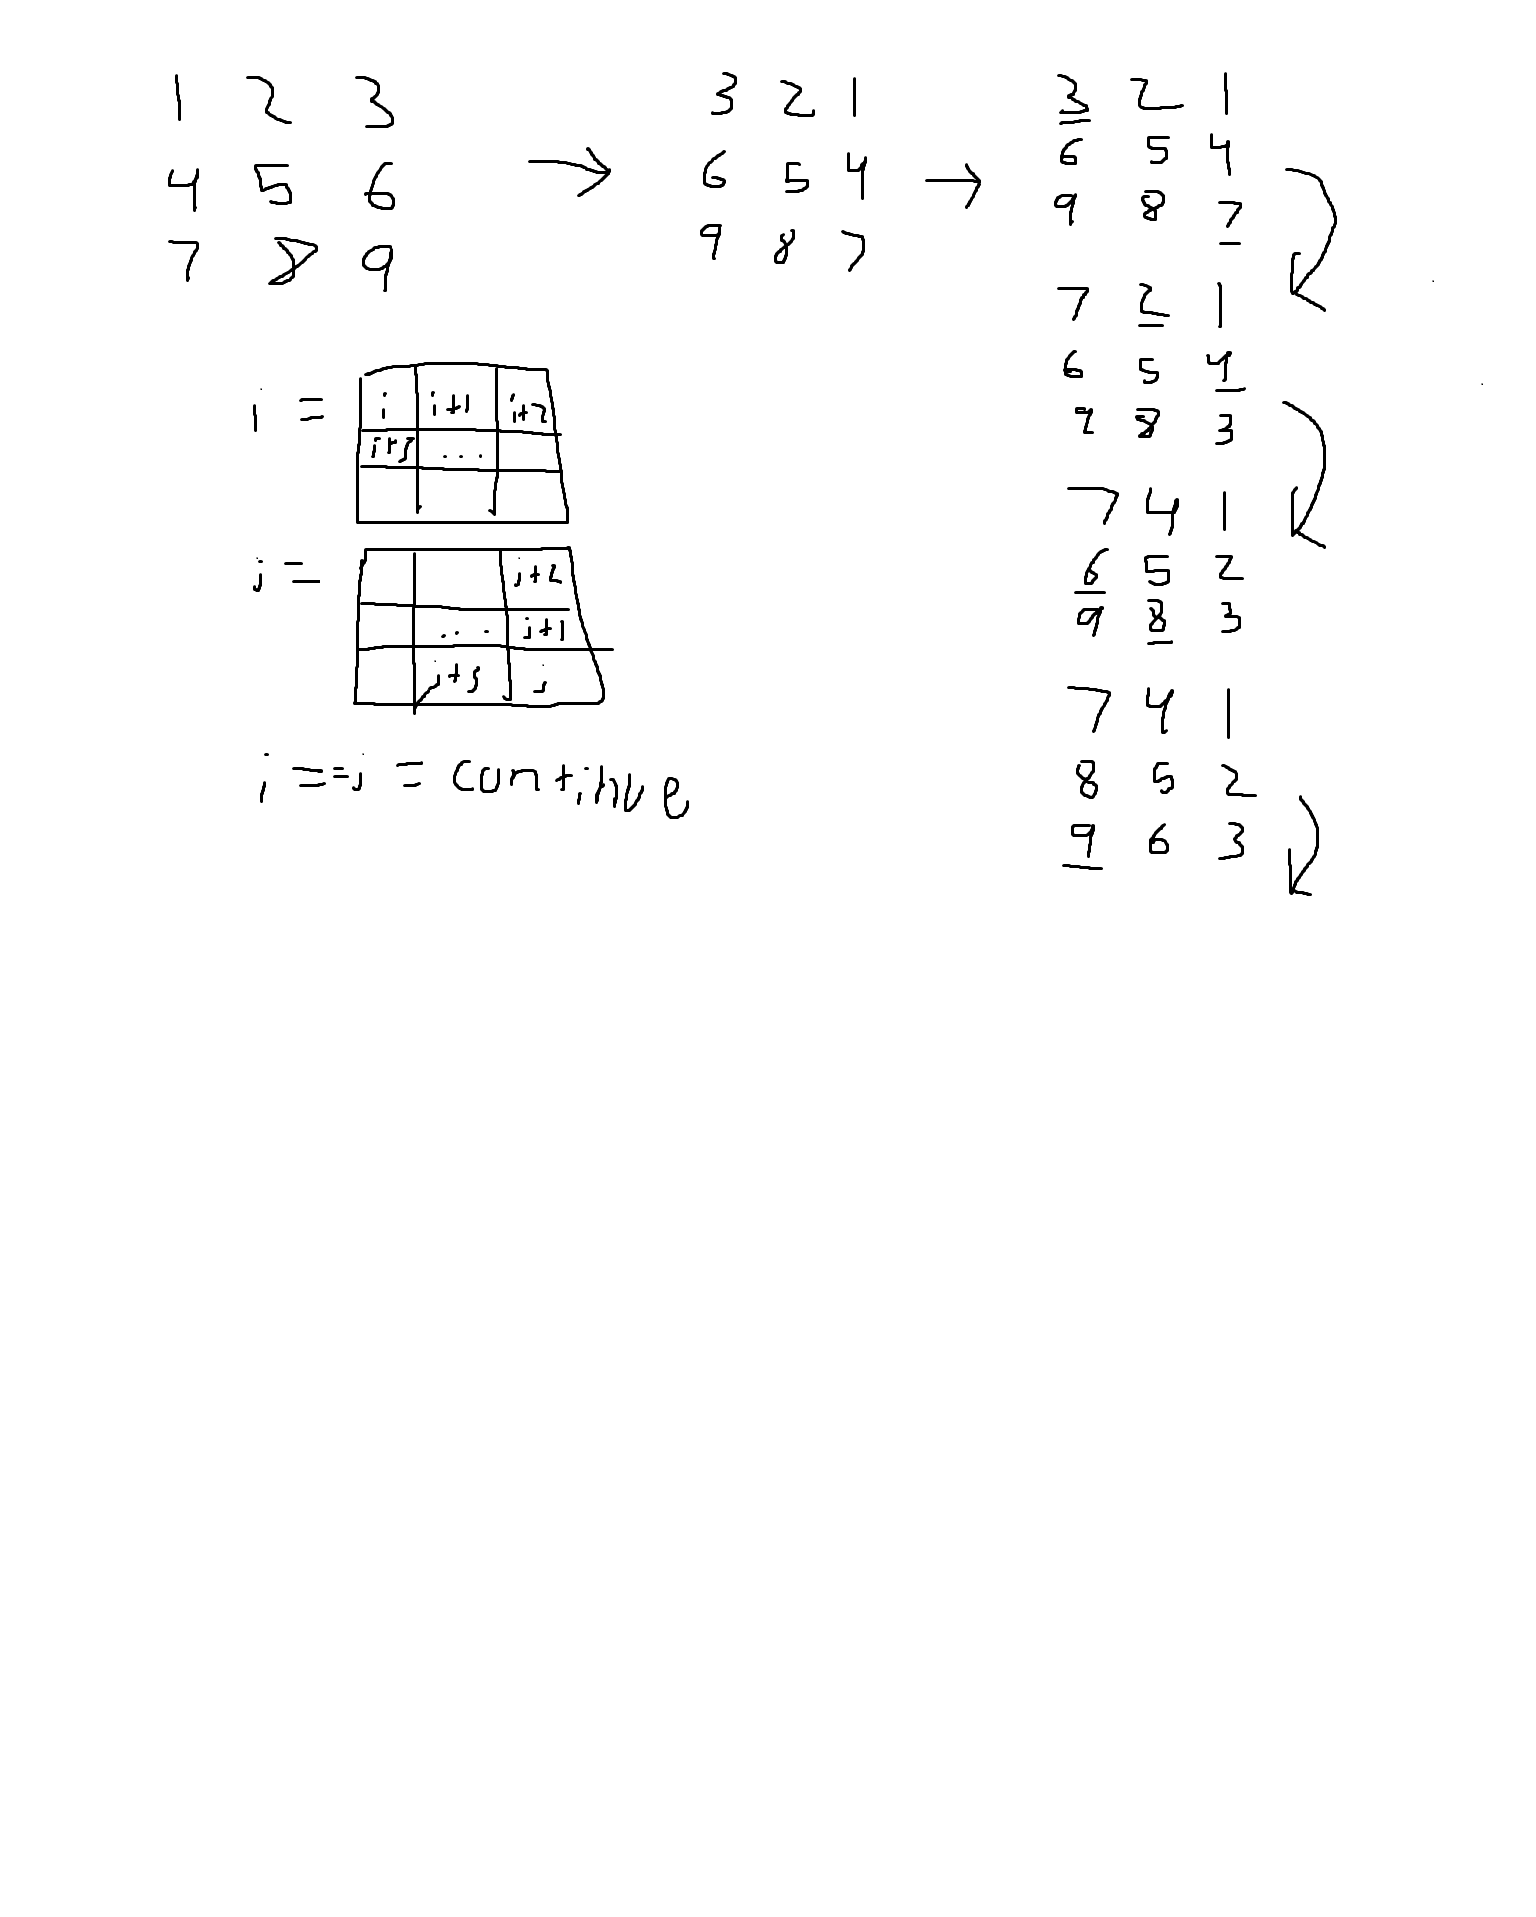
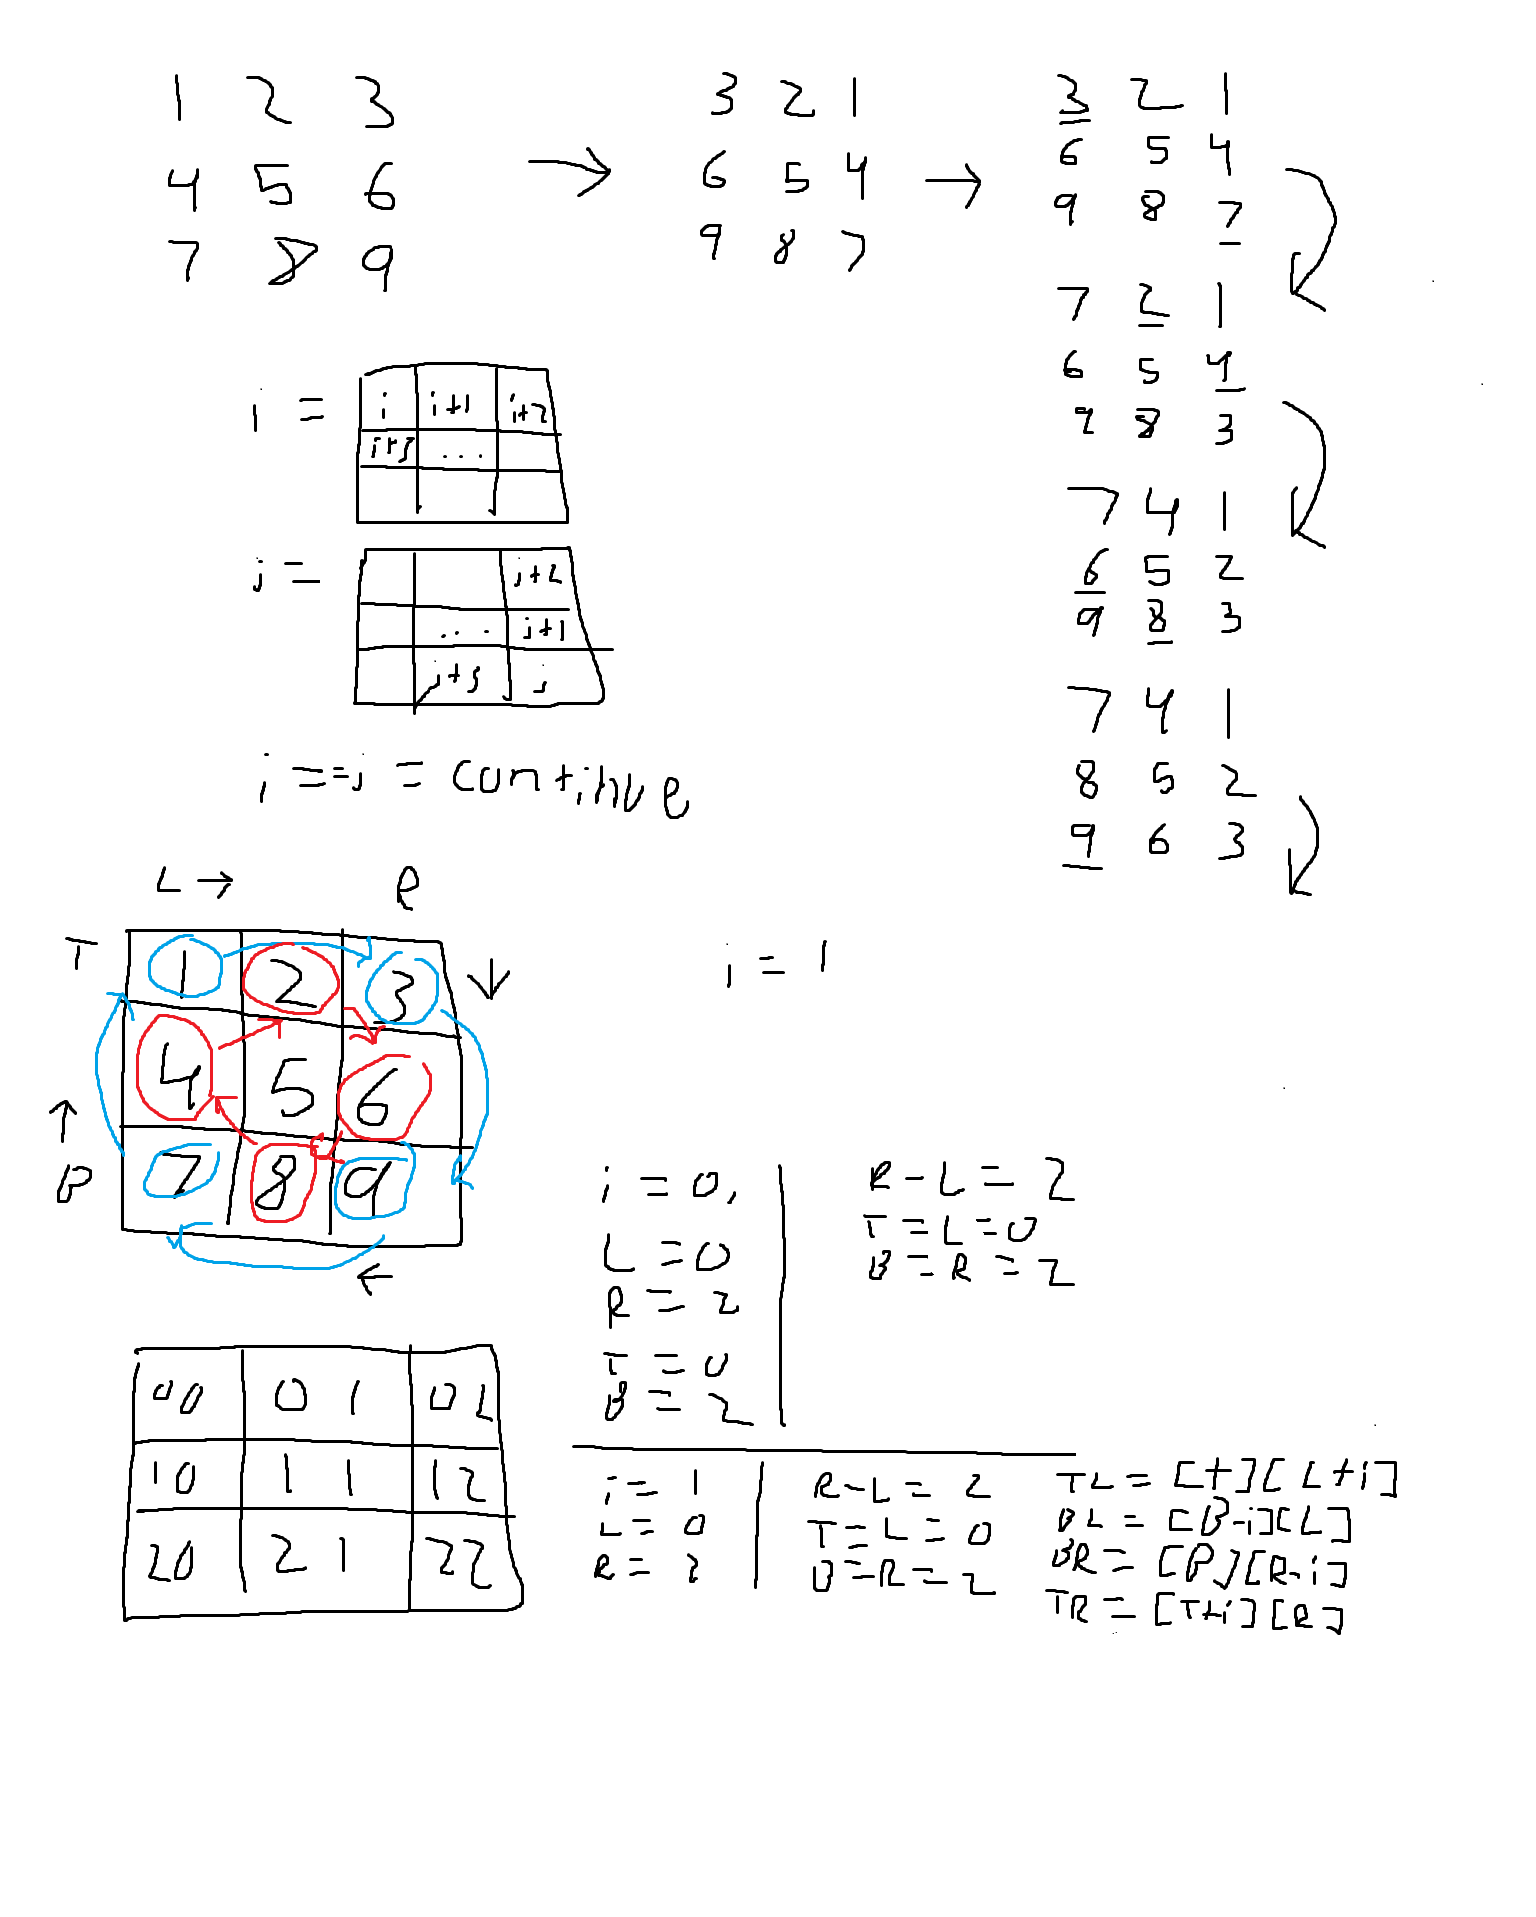
solved rotate image

diff --git a/src/Medium/RotateImage/main.cpp b/src/Medium/RotateImage/main.cpp
@@ -2,23 +2,69 @@
 #include <vector>
 #include <algorithm>
 
+// Time Complexly: O(n^2)
+// Space Complexity: O(1)
 void rotate(std::vector<std::vector<int>>& matrix)
 {
-    int row = matrix.size();
-    int column = matrix[0].size();
-    int i = 0;
-    int j = column;
+    int l = 0;
+    int r = matrix[0].size() - 1;
 
-    // Reverse each
-    for (int i = 0; i < row; i++)
+    // Increment to inner rectangle
+    while (l <= r)
     {
-       std::reverse(matrix[i].begin(), matrix[i].end());
+        // rotate n times
+        for (int i = 0; i < r - l; i++)
+        {
+            int t = l;
+            int b = r;
+
+            int top_left = matrix[t][l + i];
+
+            // Move bottom left to top left
+            matrix[t][l + i] = matrix[b - i][l];
+
+            // Move bottom right to bottom left
+            matrix[b - i][l] = matrix[b][r - i];
+
+            // Move top right to bottom right
+            matrix[b][r - i] = matrix[t + i][r];
+
+            // Move top left to top right
+            matrix[t + i][r] = top_left;
+        }
+        l++;
+        r--;
     }
+}
 
-
+void print_matrix(const std::vector<std::vector<int>>& matrix)
+{
+    for (int i = 0; i < matrix.size(); i++)
+    {
+        for (int j = 0; j < matrix[0].size(); j++)
+        {
+            std::cout << matrix[i][j] << " ";
+        }
+        std::cout << "\n";
+    }
 }
 
 int main()
 {
+    std::vector<std::vector<int>> matrix =
+    {
+    {1,2,3},
+    {4,5,6},
+    {7,8,9},
+    };
+    std::cout << "Before:\n";
+    print_matrix(matrix);
+
+    rotate(matrix);
+
+    std::cout << "\nAfter:\n";
+    print_matrix(matrix);
+
+
     return 0;
 }
